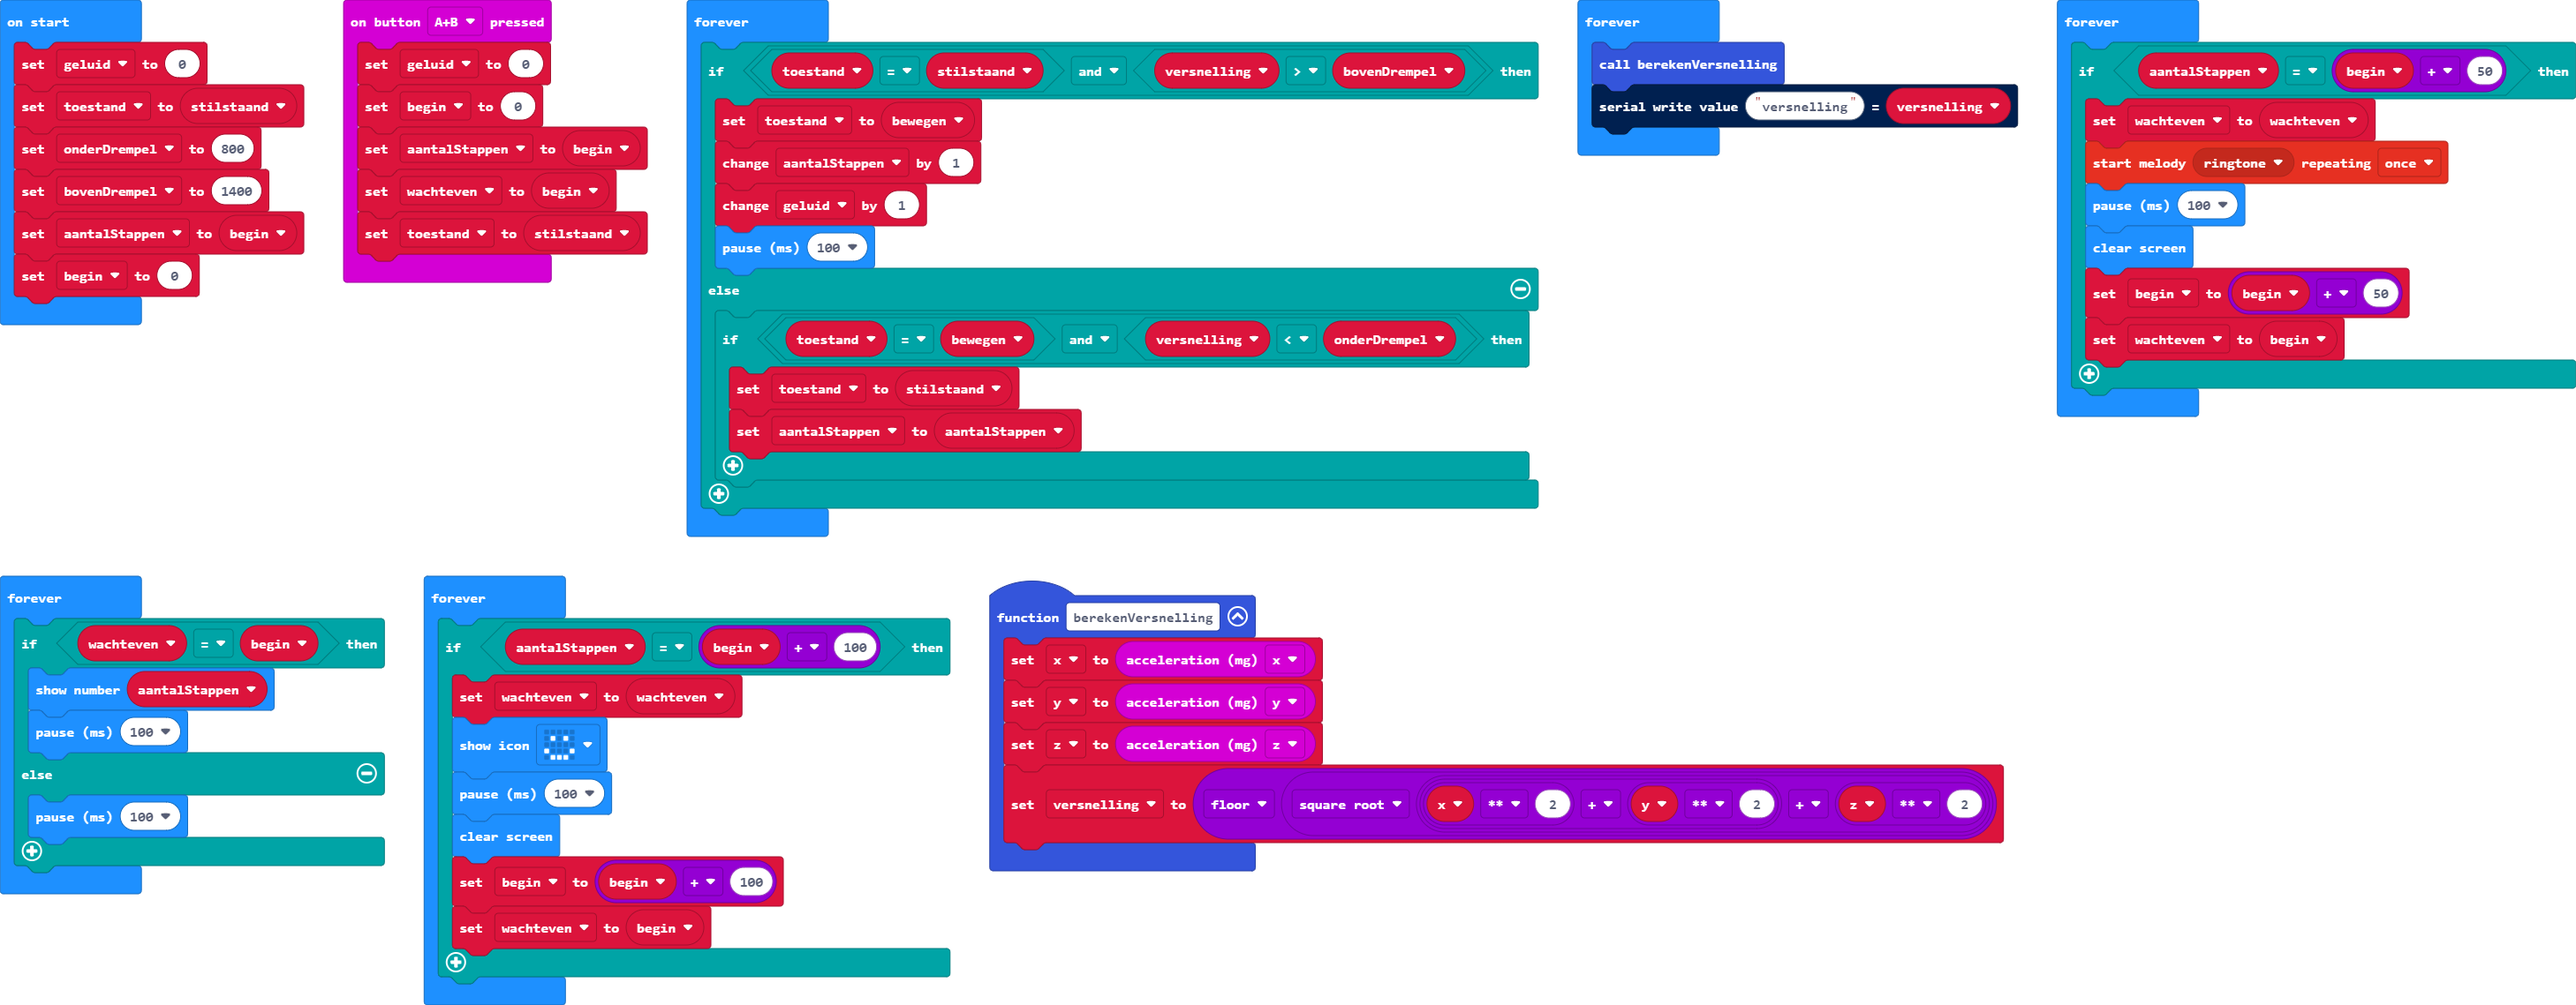
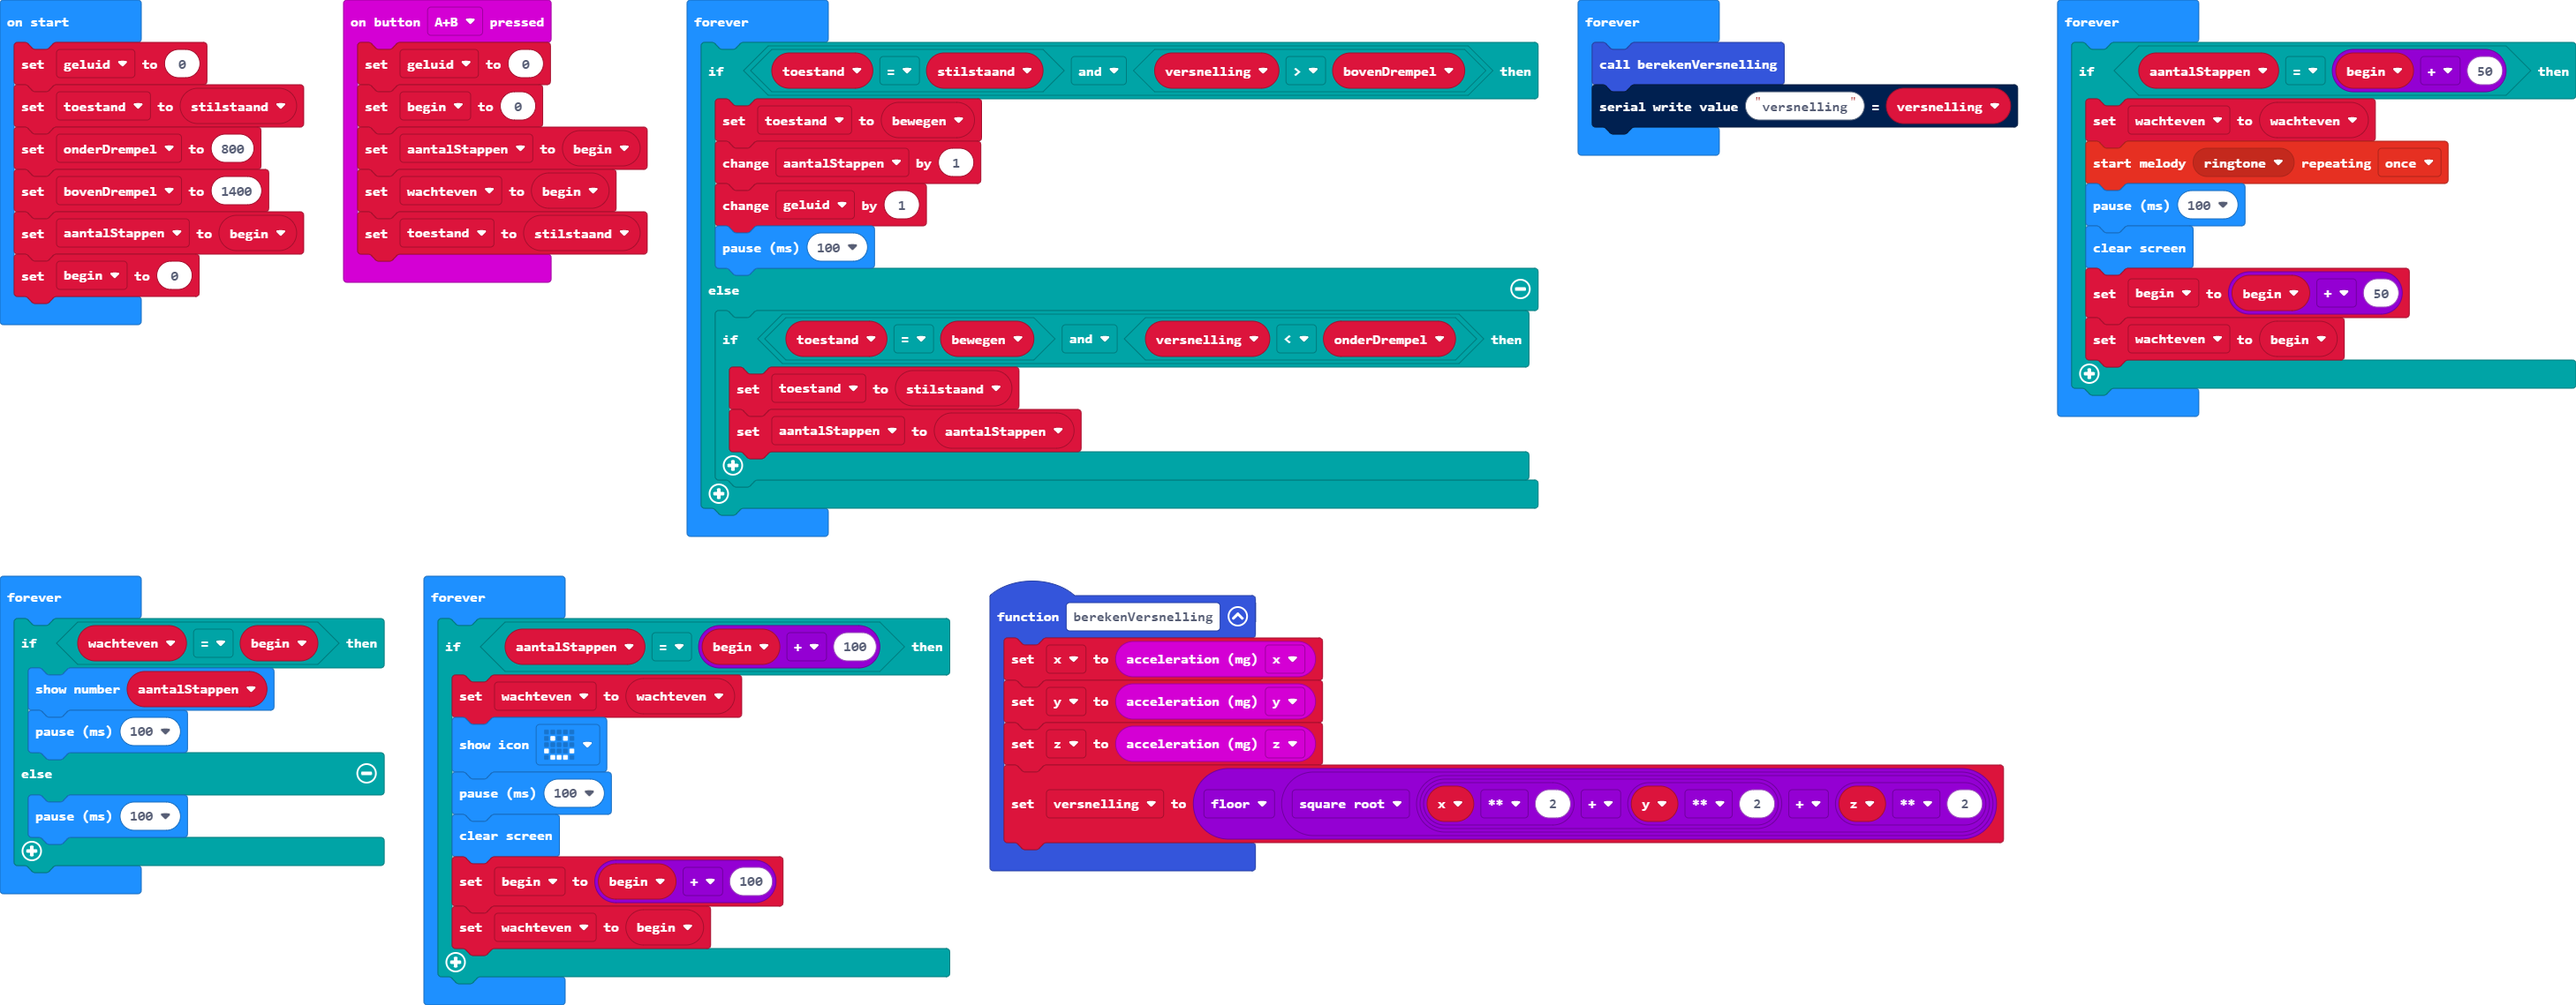
Update main.blocks, main.ts

diff --git a/main.ts b/main.ts
@@ -46,12 +46,12 @@ basic.forever(function () {
     serial.writeValue("versnelling", versnelling)
 })
 basic.forever(function () {
-    if (aantalStappen == geluid + 50) {
+    if (aantalStappen == begin + 50) {
         wachteven = wachteven
         music.startMelody(music.builtInMelody(Melodies.Ringtone), MelodyOptions.Once)
         basic.pause(100)
         basic.clearScreen()
-        begin = geluid + 50
+        begin = begin + 50
         wachteven = begin
     }
 })
